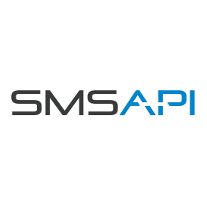
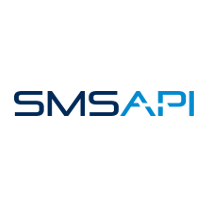
fix smsapi, add moge sponsors and partners

Changed region(s): [[0.029, 0.4348, 0.7826, 0.5797], [0.7536, 0.4348, 0.9565, 0.5797]]

diff --git a/src/index.html b/src/index.html
@@ -409,79 +409,93 @@
                 </div>
             </div>
             <div class='row'>
-                <div class="col-md-3 col-xs-6">
+                <div class="col-md-4 col-xs-6">
                     <h4 class='text-center'>
                         <a href='http://www.iteo.co'><img src='img/iteo.png' /></a><br/>
                     </h4>
                     <h4 class='text-yellow'>ITEO</h4>
                     <h4>SPONSOR</h4>
                 </div>
-                <div class="col-md-3 col-xs-6">
+                <div class="col-md-4 col-xs-6">
                     <h4 class='text-center'>
                         <a href='http://solution4future.com'><img src='img/s4f.png' /></a><br/>
                     </h4>
                     <h4 class='text-yellow'>SOLUTION4FUTURE</h4>
                     <h4>SPONSOR</h4>
                 </div>
-                <div class="col-md-3 col-xs-6">
+                <div class="col-md-4 col-xs-12">
                     <h4 class='text-center'>
                         <a href='http://selleo.com' ><img src='img/seleo.png' /></a><br/>
                     </h4>
                     <h4 class='text-yellow'>SELLEO</h4>
                     <h4>SPONSOR</h4>
                 </div>
-                <div class="col-md-3 col-xs-6">
-                    <h4 class='text-center'>
-                        <a href='http://kontakt.io'><img src='img/kontakt-io.png' /></a><br/>
-                    </h4>
-                    <h4 class='text-yellow'>KONTAKT.IO</h4>
-                    <h4>SPONSOR</h4>
-                </div>
             </div>
             <div class='row'>
-                <div class="col-md-3 col-xs-6">
+                <div class="col-md-4 col-xs-6">
                     <h4 class='text-center'>
                         <a href='https://dobreziele.pl/'><img src='img/dobre-ziele.png' /></a><br/>
                     </h4>
                     <h4 class='text-yellow'>DOBRE ZIELE</h4>
                     <h4>SPONSOR</h4>
                 </div>
-                <div class="col-md-3 col-xs-6">
+                <div class="col-md-4 col-xs-6">
                     <h4 class='text-center'>
                         <a href='https://www.future-processing.pl/'><img src='img/fp.png' /></a><br/>
                     </h4>
                     <h4 class='text-yellow'>FUTURE PROCESSING</h4>
                     <h4>SPONSOR</h4>
                 </div>
-                <div class="col-md-3 col-xs-6">
+                <div class="col-md-4 col-xs-12">
                     <h4 class='text-center'>
                         <a href='http://programistamag.pl/'><img src='img/programista.png' /></a><br/>
                     </h4>
                     <h4 class='text-yellow'>PROGRAMISTA</h4>
                     <h4>SPONSOR</h4>
                 </div>
-                <div class="col-md-3 col-xs-6">
+            </div>
+            <div class='row'>
+                <div class="col-md-4 col-xs-6">
+                    <h4 class='text-center'>
+                        <a href='http://kontakt.io'><img src='img/kontakt-io.png' /></a><br/>
+                    </h4>
+                    <h4 class='text-yellow'>KONTAKT.IO</h4>
+                    <h4>SPONSOR</h4>
+                </div>
+                <div class="col-md-4 col-xs-6">
                     <h4 class='text-center'>
                         <a href='https://www.smsapi.pl/'><img src='img/smsapi.png' /></a><br/>
                      </h4>
                     <h4 class='text-yellow'>SMSAPI</h4>
                     <h4>SPONSOR</h4>
                 </div>
+                <div class="col-md-4 col-xs-12">
+                    <h4 class='text-center'>
+                        <a href='https://silenceonthewire.com/'><img src='img/silence.png' /></a><br/>
+                     </h4>
+                    <h4 class='text-yellow'>SILENCE ON THE WIRE</h4>
+                    <h4>SPONSOR</h4>
+                </div>
             </div>
             <div class='row'>
-                <div class="col-md-4 col-xs-6">
+                <div class="col-md-3 col-xs-6">
                     <h4 class='text-center'><img src='img/kdp-logo.png' /></h4><br/>
                     <h4 class='text-yellow'>KODUJ DLA POLSKI</h4>
                     <h4>PATRONAT</h4>
                 </div>
-                <div class="col-md-4 col-xs-6">
+                <div class="col-md-3 col-xs-6">
                     <h4 class='text-center'><img src='img/asp.png' /></h4><br/>
                     <h4 class='text-yellow'>ASP KATOWICE</h4>
                     <h4>PATRONAT</h4>
                 </div>
-                <div class="col-md-4 col-xs-12">
+                <div class="col-md-3 col-xs-6">
                     <h4 class='text-center'><img src='img/blk.png' /></h4><br/>
                     <h4 class='text-yellow'>BUSINESS LINK</h4>
+                    <h4>PATRONAT</h4>
+                </div>
+                <div class="col-md-3 col-xs-6">
+                    <h4 class='text-center'><img src='img/korczak.png' /></h4><br/>
+                    <h4 class='text-yellow'>STOWARZYSZENIE KORCZAK</h4>
                     <h4>PATRONAT</h4>
                 </div>
             </div>
